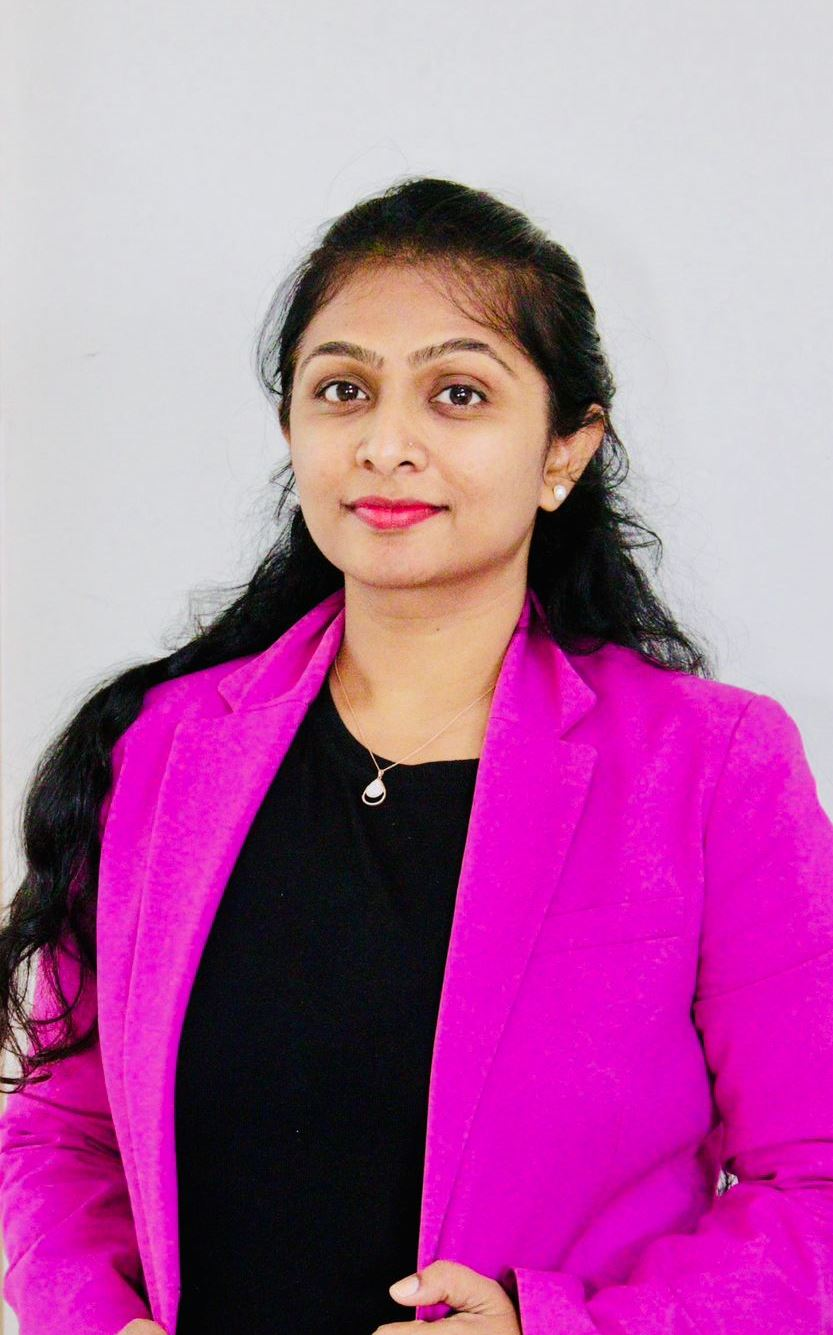
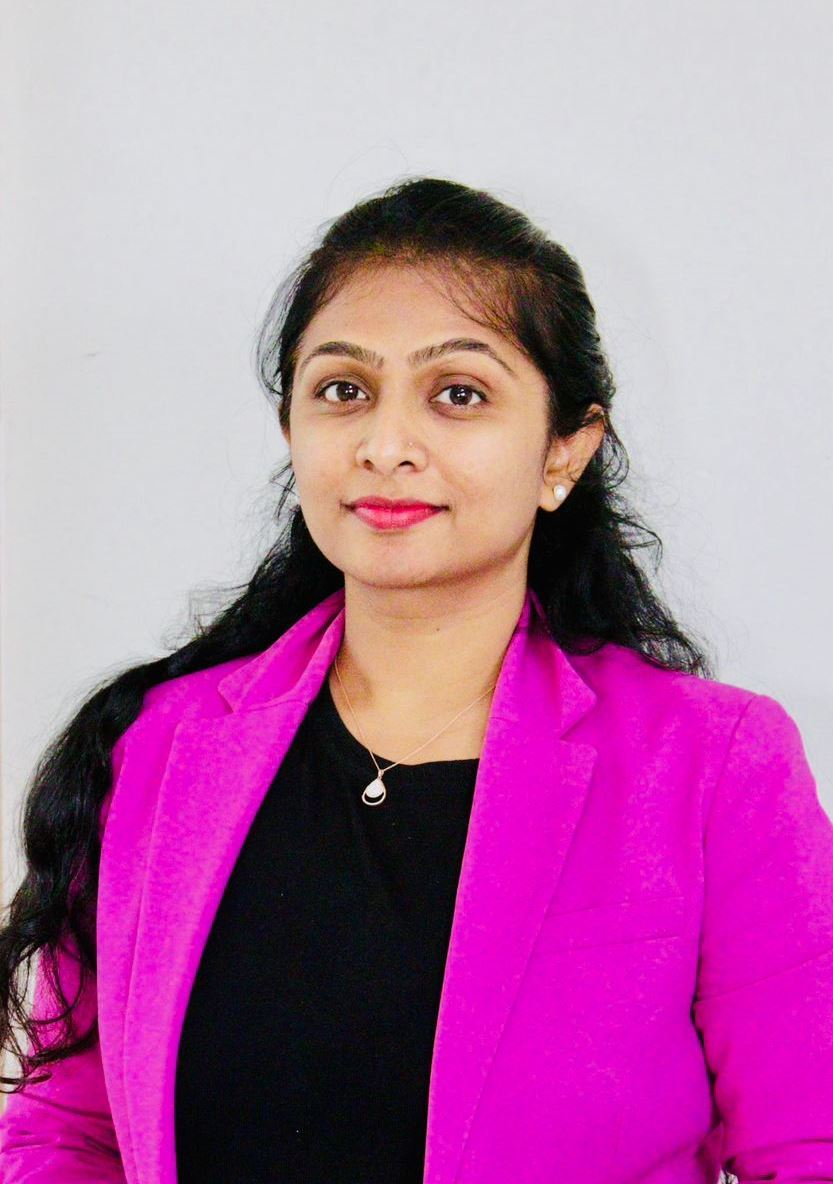
updated members

diff --git a/apps/client/src/components/MembersPage.tsx b/apps/client/src/components/MembersPage.tsx
@@ -29,6 +29,7 @@ const tejaswiniPhoto = '/images/Tejaswini Begur.jpg';
 const ravindraPhoto = '/images/Ravindra Thube.jpg';
 const nageshPhoto = '/images/SALIMATH NAGESH.jpeg';
 const kumaraPhoto = '/images/Kumar Mallaiah.jpg';
+const pavanPhoto = '/images/Pavan Kumar.png';
 import { AnimatePresence } from "motion/react";
 
 interface ExecutiveMember {
@@ -213,6 +214,15 @@ export function MembersPage ({
       qualifications: "M.Tech IIT Kharagpur, MBA IIM Kozhikode",
       email: "[email redacted]",
       image: ravindraPhoto,
+    },
+    {
+      name: "Mr. Pavan Kumar U",
+      position: "Member",
+      institution:
+        "Edunet Foundation",
+      qualifications: "Diploma in CSE",
+      email: "[email redacted]",
+      image: pavanPhoto,
     },
  
   ];

diff --git a/apps/client/src/components/ExecutiveMembersPage.tsx b/apps/client/src/components/ExecutiveMembersPage.tsx
@@ -23,6 +23,7 @@ const bheemeswaraPhoto = '/images/Bheemeswara_Reddy.jpeg';
 const celestinaPhoto = '/images/Celestina Suresh.jpg';
 const rashmiPhoto = '/images/Rashmi.jpeg';
 const netravathiPhoto = '/images/Nethravathi.jpeg';
+const waseemPhoto = '/images/waseem.jpeg';
 import { AnimatePresence } from "motion/react";
 
 interface ExecutiveMember {
@@ -286,6 +287,7 @@ export function ExecutiveMembersPage({
         "Increased employer engagement",
         "Improved brand visibility",
       ],
+      image: waseemPhoto,
       linkedin: "https://www.linkedin.com/in/mujthaba2026?utm_source=share_via&utm_content=profile&utm_medium=member_android",
     },
     {